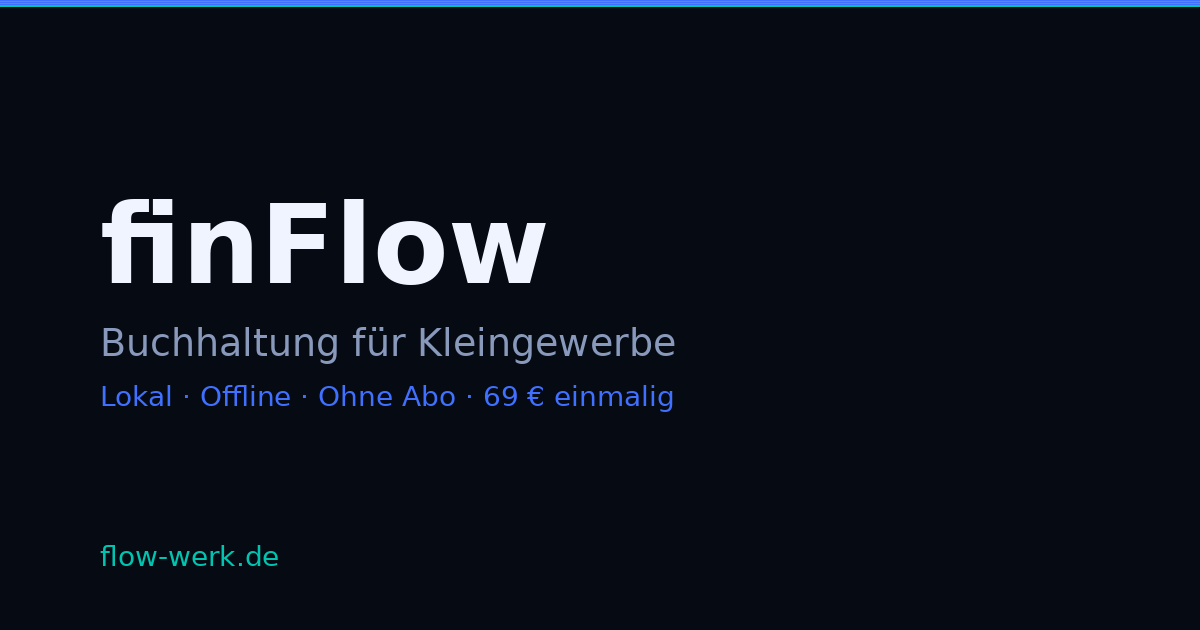
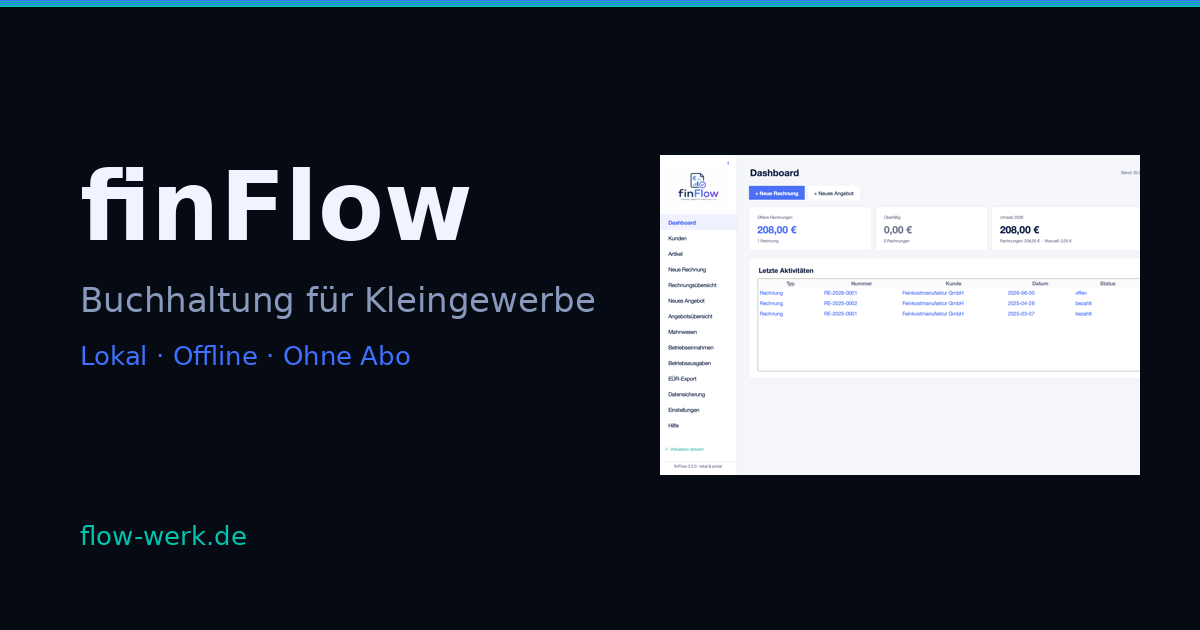
screenshot added

Changed region(s): [[0.0617, 0.2413, 0.9558, 0.754], [0.0617, 0.8444, 0.2467, 0.9048]]

diff --git a/index.html b/index.html
@@ -407,22 +407,7 @@ document.getElementById('oveula-c').innerHTML=
     <div class="mscene" id="ms">
       <div class="mcard" id="mc">
         <div class="mbar"><span class="mdot" style="background:#FF5F57"></span><span class="mdot" style="background:#FFBD2E"></span><span class="mdot" style="background:#28C840"></span><span class="mtitle">finFlow &mdash; Dashboard</span></div>
-        <div class="mbody">
-          <div class="msb"><div class="mslogo">fin<b>Flow</b></div><div class="msnav a">Dashboard</div><div class="msnav">Kunden</div><div class="msnav">Rechnungen</div><div class="msnav">Angebote</div><div class="msnav">Mahnwesen</div><div class="msnav">E&Uuml;R-Export</div><div class="msnav">Einstellungen</div></div>
-          <div>
-            <div class="mkpis">
-              <div class="mkpi"><div class="mkl">Offen</div><div class="mkv tc">2.430 &euro;</div><div class="mks">4 Rechnungen</div></div>
-              <div class="mkpi"><div class="mkl">&Uuml;berf&auml;llig</div><div class="mkv rc">480 &euro;</div><div class="mks">1 Rechnung</div></div>
-              <div class="mkpi"><div class="mkl">Umsatz 2026</div><div class="mkv">11.840 &euro;</div><div class="mks">gesamt</div></div>
-            </div>
-            <div class="mlist">
-              <div class="mlh"><span>Nummer</span><span>Kunde</span><span>Betrag</span><span>Status</span></div>
-              <div class="mlr"><span>RE-2026-0012</span><span>Maier Design</span><span>840 &euro;</span><span><span class="bdg bo">offen</span></span></div>
-              <div class="mlr"><span>RE-2026-0011</span><span>K&ouml;nig &amp; Co.</span><span>1.590 &euro;</span><span><span class="bdg bp">bezahlt</span></span></div>
-              <div class="mlr"><span>RE-2026-0010</span><span>Weber GmbH</span><span>480 &euro;</span><span><span class="bdg br">&uuml;berf&auml;llig</span></span></div>
-            </div>
-          </div>
-        </div>
+        <img src="screenshot-dashboard.png" alt="finFlow Dashboard &ndash; Übersicht über offene Rechnungen, Umsatz und letzte Aktivitäten" style="width:100%;display:block;border-bottom-left-radius:14px;border-bottom-right-radius:14px"/>
       </div>
     </div>
   </div>